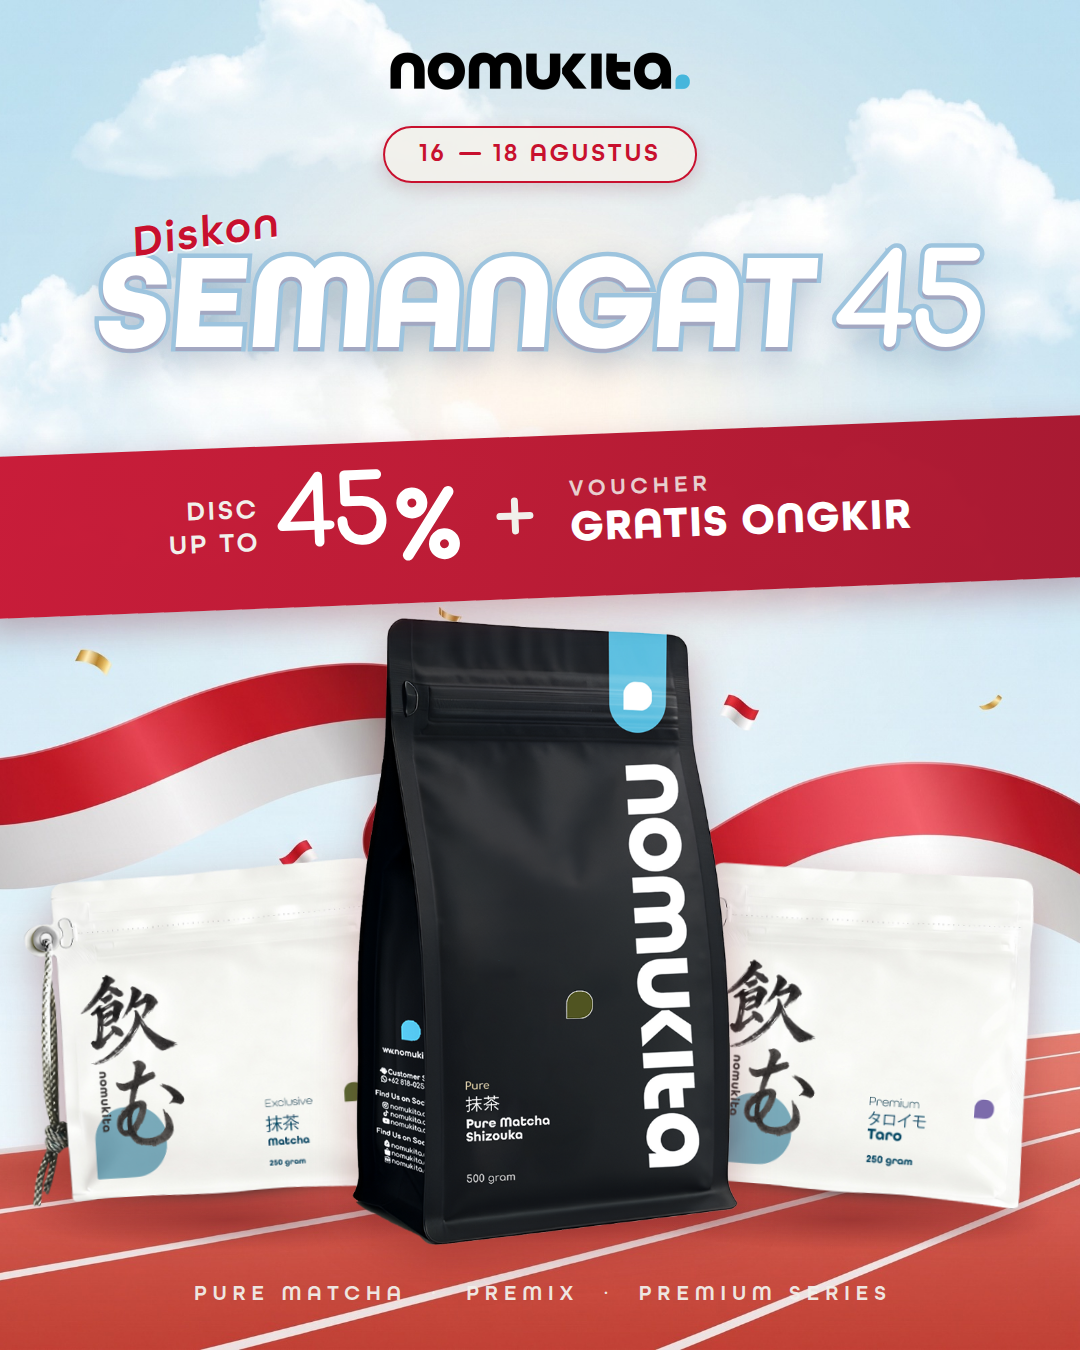
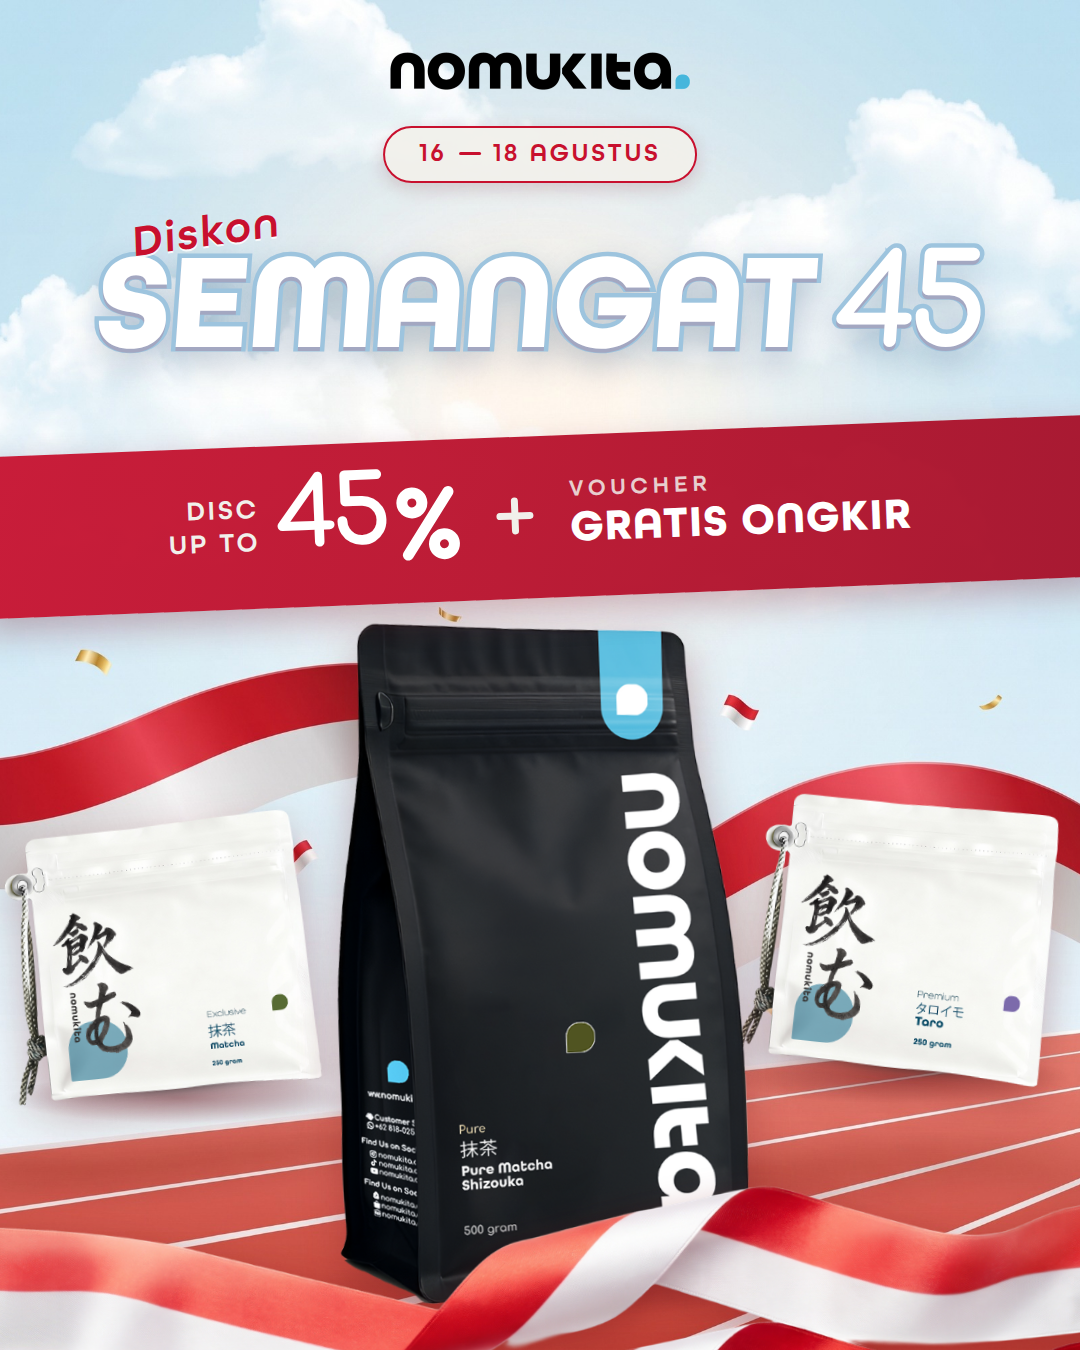
Stage the 17an products as a race and drop the footer line
The reference's charm is that its products are racing; the first pass just
stood them on the track. Now Shizouka leads the field — front-most, largest,
leaning into a finish-line tape that breaks across its lane — while Premix
and Taro trail higher up the track in their own lanes, smaller and tilted
into the run.

The tape is a dedicated asset (satin red-white ribbon generated on white,
cut out with recraft/remove-background) so it can sit in front of the
products at z-index 8; the background ribbon stays behind them, giving the
scene two depth layers like the reference. Tape position is tuned so the
Shizouka label — including 500 gram — stays fully readable, noted in the
README as a check to repeat if the tape ever moves.

Removed the PURE MATCHA · PREMIX · PREMIUM SERIES footer as requested.

Claude-Session: https://claude.ai/code/session_01JLTZpkd5TWMrYgZzd5niuW

Changed region(s): [[0.0, 0.4356, 1.0, 1.0], [0.5194, 0.7156, 0.55, 0.7778], [0.4889, 0.4978, 0.5194, 0.5289]]

diff --git a/design/17agustus/banner.html b/design/17agustus/banner.html
@@ -77,16 +77,16 @@
 
   /* ── products on the track ── */
   .prod{position:absolute;z-index:6;filter:drop-shadow(0 18px 22px rgba(120,25,30,.35))}
-  .p-shz{left:352px;top:618px;width:386px;z-index:7}
-  .p-pre{left:8px;  top:868px;width:426px;transform:rotate(-4deg)}
-  .p-tar{right:8px; top:868px;width:426px;transform:rotate(4deg)}
+  .p-shz{left:330px;top:618px;width:420px;z-index:7;transform:rotate(-2deg)}
+  .p-pre{left:-6px; top:822px;width:350px;transform:rotate(-6deg)}
+  .p-tar{right:-6px;top:802px;width:350px;transform:rotate(6deg)}
+  /* finish-line tape breaking across the leader's lane, in front of everything */
+  .tape{position:absolute;left:-70px;top:1192px;width:1220px;z-index:8;
+    transform:rotate(-1.6deg);
+    filter:drop-shadow(0 12px 18px rgba(120,20,30,.35))}
   .gshadow{position:absolute;z-index:5;border-radius:50%;
     background:radial-gradient(ellipse at center,rgba(90,15,20,.38) 0%,rgba(90,15,20,0) 70%)}
 
-  /* ── footer line on the track ── */
-  .foot{position:absolute;left:0;right:0;bottom:44px;z-index:9;text-align:center;
-    font-family:var(--brand-label);font-size:21px;letter-spacing:6px;text-indent:6px;
-    color:rgba(241,240,235,.95)}
 </style>
 </head>
 <body>
@@ -125,15 +125,15 @@
     </div>
   </div>
 
-  <div class="gshadow" style="left:330px;top:1180px;width:430px;height:64px"></div>
-  <div class="gshadow" style="left:20px;top:1190px;width:420px;height:60px"></div>
-  <div class="gshadow" style="right:20px;top:1190px;width:420px;height:60px"></div>
+  <div class="gshadow" style="left:310px;top:1252px;width:460px;height:66px"></div>
+  <div class="gshadow" style="left:6px;top:1072px;width:346px;height:52px"></div>
+  <div class="gshadow" style="right:6px;top:1052px;width:346px;height:52px"></div>
 
   <img class="prod p-pre" src="assets/premix.png" alt="Matcha Premix 250 gram">
   <img class="prod p-tar" src="assets/taro.png" alt="Taro 250 gram">
   <img class="prod p-shz" src="assets/shizouka.png" alt="Pure Matcha Shizouka">
+  <img class="tape" src="assets/tape.png" alt="">
 
-  <div class="foot">PURE MATCHA &nbsp;&middot;&nbsp; PREMIX &nbsp;&middot;&nbsp; PREMIUM SERIES</div>
 </div>
 </body>
 </html>

diff --git a/design/17agustus/README.md b/design/17agustus/README.md
@@ -19,8 +19,8 @@ node design/17agustus/render.mjs
 | Script "Diskon" oranye | "Diskon" merah, ARG Demi dimiringkan |
 | Headline putih "SEMANGAT 45" outline biru | Sama — dua lapis: stroke biru muda di belakang, isi putih di depan |
 | Band biru `DISC UP TO 50% + VOUCHER UP TO 45K` | Band merah `DISC UP TO 45% + VOUCHER GRATIS ONGKIR` |
-| 3 produk di lintasan lari + pita merah putih | 3 kemasan asli di lintasan, pita merah-putih di background |
-| `100% ORI + BPOM APPROVED` | Baris kategori: `PURE MATCHA · PREMIX · PREMIUM SERIES` |
+| 3 produk di lintasan lari + pita merah putih | 3 kemasan ditata sebagai lomba lari (lihat bawah) |
+| `100% ORI + BPOM APPROVED` | — (footer dihapus atas permintaan) |
 
 "Semangat 45" sekaligus pun angka diskonnya — 45%.
 
@@ -36,6 +36,22 @@ Ketiganya cutout transparan asli yang dikomposit di HTML — **label tidak melew
 model gambar sama sekali**, jadi tidak ada risiko aksara rusak dan tidak perlu
 pass perbaikan (pelajaran dari banner 8.8). Background digenerate `nano-banana-pro`
 tanpa produk dan tanpa teks.
+
+## Penataan lomba lari
+
+Produk ditata sebagai pelari di lintasan:
+
+- **Shizouka memimpin** — terdepan (paling bawah, terbesar, `rotate(-2deg)`
+  condong ke depan), menembus **pita finis** (`assets/tape.png`) yang melintang
+  di depan kakinya pada `z-index` di atas semua produk.
+- **Premix & Taro menyusul** — lebih tinggi di lintasan (= lebih jauh), lebih
+  kecil (350px vs 420px), miring ±6° di lajur masing-masing.
+- Pita finis digenerate terpisah (pita satin merah-putih di latar putih, lalu
+  `recraft/remove-background`) supaya bisa ditaruh *di depan* produk; pita di
+  background tetap di belakang sebagai lapisan kedalaman.
+- Posisi pita dijaga agar tidak menutupi teks label: `top:1192` membiarkan
+  `500 gram` pada Shizouka terbaca penuh — kalau menggeser pita ke atas,
+  periksa lagi zoom labelnya.
 
 ## Karakter terkunci (font DEMO)
 
